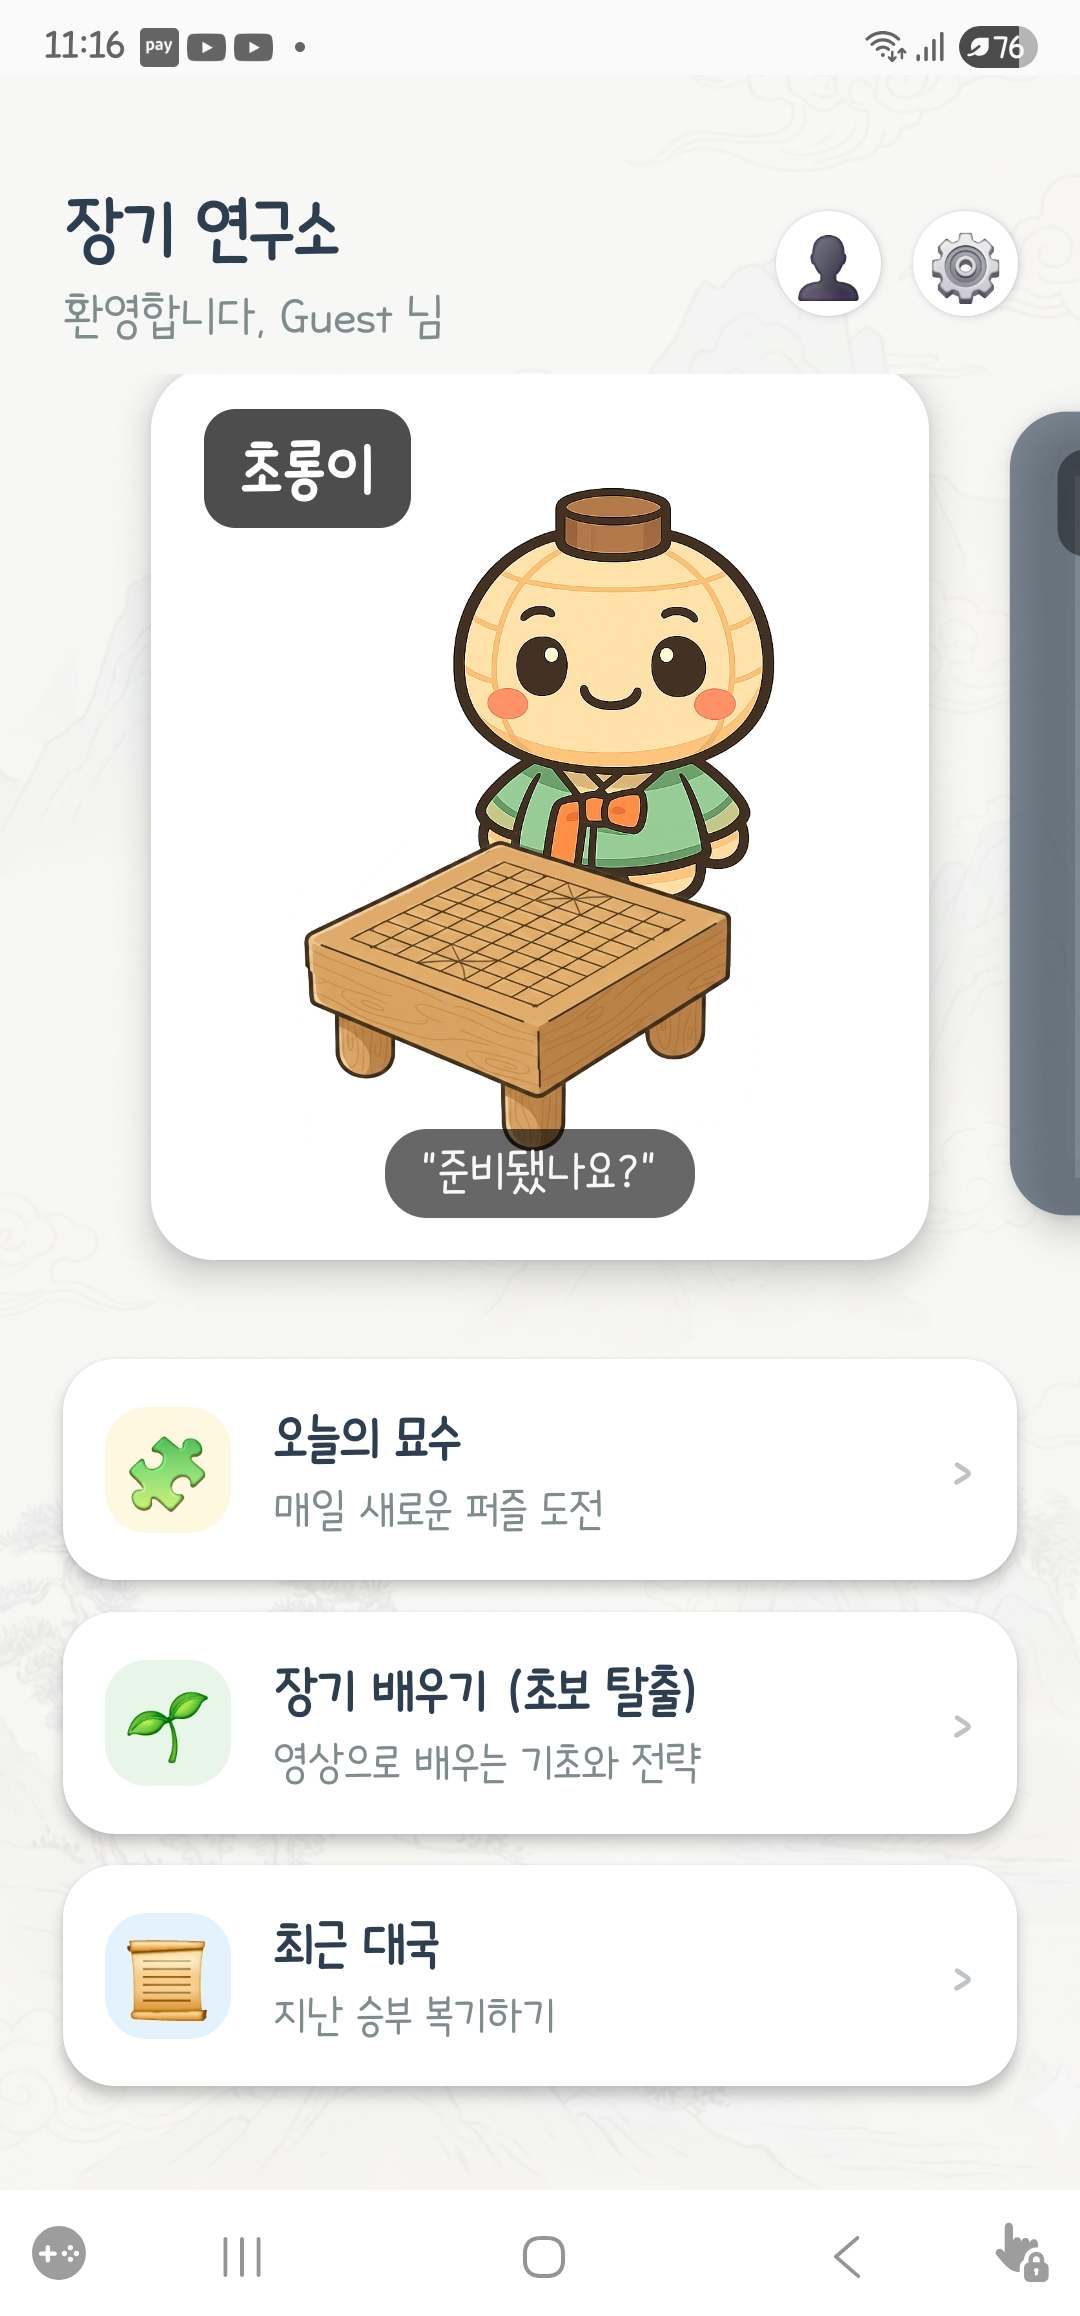
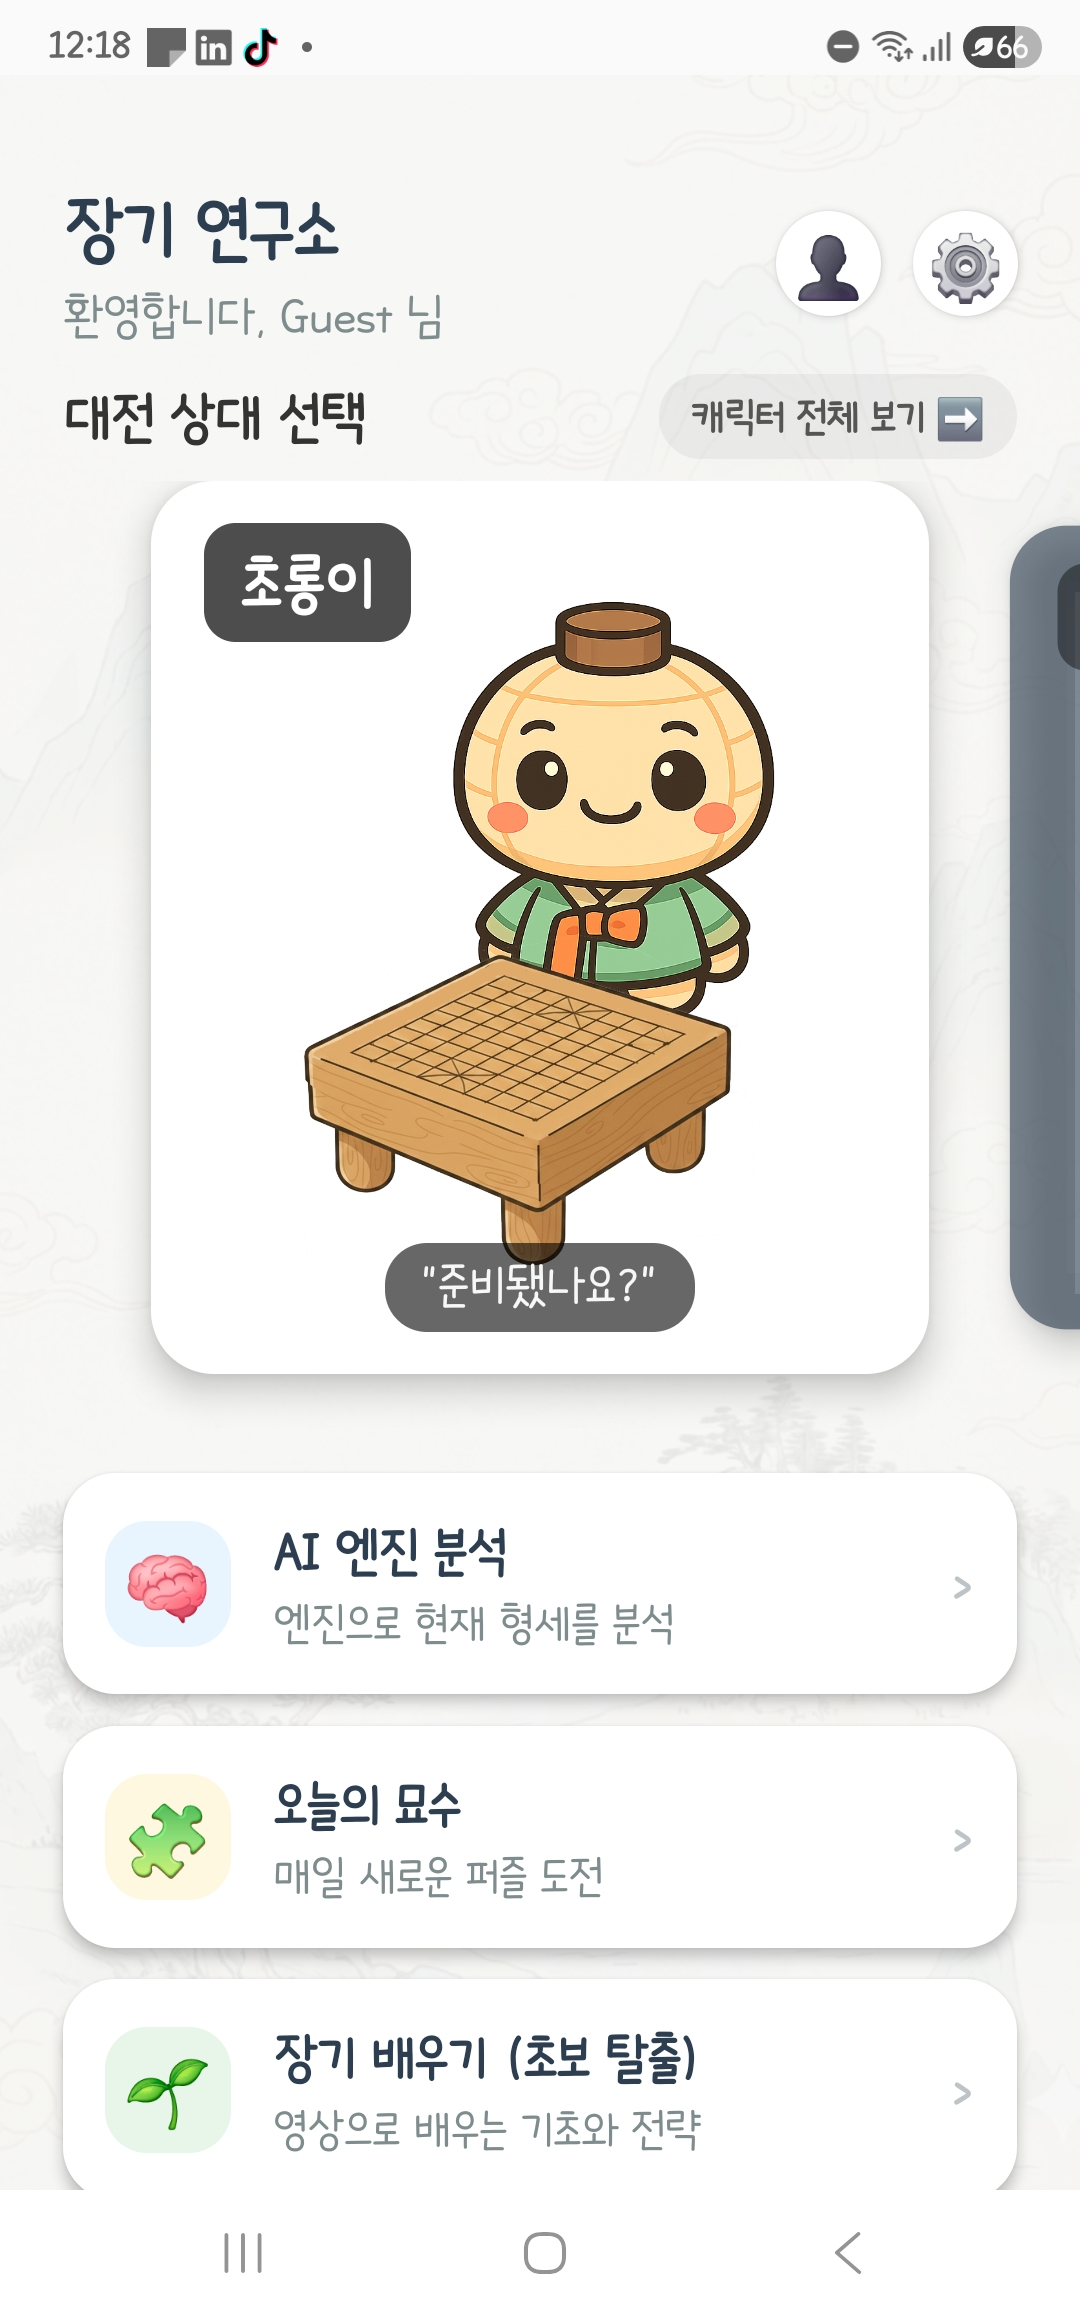
Deploying to main from @ flitsky/Janggi-App@07f8c88cbe211d22b5c4bd5a42588424d83aac34 🚀

diff --git a/release-note/index.html b/release-note/index.html
@@ -179,6 +179,50 @@
             <a href="../index.html" class="back-link">← 홈으로 돌아가기</a>
         </header>
 
+        <!-- v1.8.0 Release -->
+        <article class="release-card">
+            <div class="version-header">
+                <div style="display: flex; align-items: center; gap: 15px;">
+                    <span class="version-tag">v1.8.0</span>
+                    <h2>AI 연구/학습 기능 고도화 업데이트</h2>
+                </div>
+                <span class="release-date">2026년 2월 9일</span>
+            </div>
+
+            <p>
+                AI 대국 학습과 연구를 위한 기능을 강화했습니다.<br>
+                초롱이 대국에서는 실험적 훈수 기능을 통해 후보수를 바로 확인할 수 있고,
+                신규 메뉴 'AI 엔진 분석'을 통해 깊이 있는 복기/연구를 진행할 수 있습니다.
+            </p>
+
+            <h3>✨ 주요 변경 사항 (Highlights)</h3>
+            <ul>
+                <li>
+                    <span class="tag-feat">New</span>
+                    <strong>'초롱이' 대국 한정 실험 기능: AI 훈수 받기</strong><br>
+                    플레이어 턴에 엔진 후보수 3개를 오버레이로 확인할 수 있습니다.<br>
+                    우측 상단 토글로 ON/OFF 전환이 가능합니다.
+                </li>
+                <li>
+                    <span class="tag-feat">New</span>
+                    <strong>신규 메뉴 오픈: AI 엔진 분석</strong><br>
+                    별도 분석 화면에서 엔진 기반으로 후보수를 확인하며 연구할 수 있습니다.<br>
+                    Depth / Skill / MultiPV 값을 조정해 다양한 관점으로 탐색할 수 있습니다.
+                </li>
+                <li>
+                    <span class="tag-impr">Impr</span>
+                    <strong>후보수 시각화 품질 개선</strong><br>
+                    후보수 안내선, 순위 숫자, 겹침 처리(북/남/동/서 오프셋)를 개선해
+                    복잡한 국면에서도 후보수 가독성을 높였습니다.
+                </li>
+                <li>
+                    <span class="tag-fix">Fix</span>
+                    <strong>엔진 분석 진입 안정화</strong><br>
+                    분석 화면 초기 진입 시 간헐적으로 발생하던 엔진 초기화 타이밍 이슈를 수정했습니다.
+                </li>
+            </ul>
+        </article>
+
         <!-- v1.7.73 Release -->
         <article class="release-card">
             <div class="version-header">

diff --git a/index.html b/index.html
@@ -362,8 +362,8 @@
             style="background: rgba(255, 255, 255, 0.95); border: 1px solid #ddd;">
             <p><strong>🎉 정식 출시 (Official Launch)</strong></p>
             <p style="margin-top:8px; font-size: 0.95rem;">
-                v1.7.73 업데이트가 완료되었습니다.<br>
-                사용자 피드백으로 '대국 일시 정지 기능'을 추가하고 안정성을 더했습니다.
+                v1.8.0 업데이트가 완료되었습니다.<br>
+                초롱이 대국에 'AI 훈수 받기(실험 기능)'가 추가되고, 신규 메뉴 'AI 엔진 분석'이 오픈되었습니다.
             </p>
         </div>
 
@@ -415,6 +415,9 @@
             </div>
             <div class="screenshot-card" onclick="openModal('assets/screenshots/screenshot-7.jpg')">
                 <img src="assets/screenshots/screenshot-7.jpg" alt="캐릭터 도감" loading="lazy">
+            </div>
+            <div class="screenshot-card" onclick="openModal('assets/screenshots/screenshot-8.jpg')">
+                <img src="assets/screenshots/screenshot-8.jpg" alt="새로운 화면" loading="lazy">
             </div>
         </div>
     </section>
